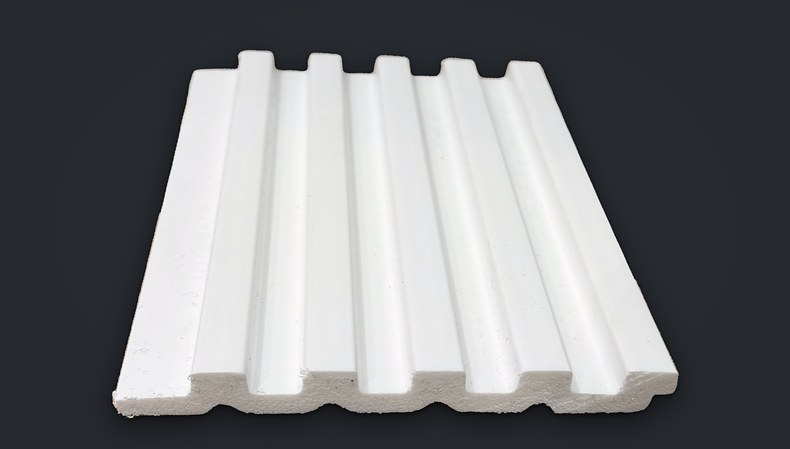
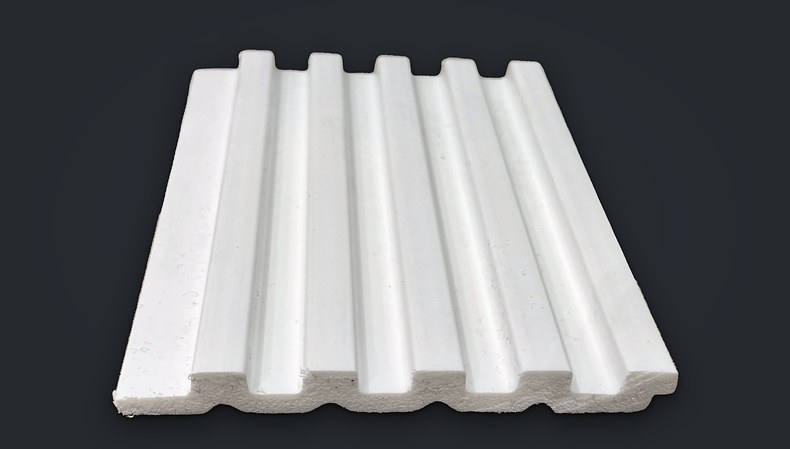
standing.py: стоящие образцы — края по самому снимку (не по маске), перспектива по 4 углам, углы целые; A904 и A201 — по 3 фото (разобрана путаница)
Claude-Session: https://claude.ai/code/session_01WYD11AvkmgMEHWWFRLVb2R

diff --git a/standing.py b/standing.py
@@ -1,0 +1,162 @@
+"""Образец стоит лицом к камере (фото с телефона): точное выравнивание.
+python3 standing.py <cut.png> <src.jpg> <out.png>
+Что делает (v4, 16.11.2026 — после замечаний Михаила «мушки / округлые / подрезанные, угла нет»):
+  1) грубая рамка — по маске нейросети (только чтобы знать, где искать);
+  2) настоящие края ищем по самому снимку (перепад яркости «белый образец — серый фон»), а не по маске:
+     маска на белом по светлому фону плавает на 3–10 px — от неё и были кривые бока и съеденные углы;
+  3) по четырём углам — перспектива в прямоугольник (телефон снимает близко и сверху: отрезок выходит трапецией);
+  4) альфа: бока — строго по прямым, верх и низ — по настоящему силуэту (профиль на срезе), углы целые;
+  5) фото внутри не трогаем (ни размытия, ни «проявления граней») — свет и тени как на снимке.
+Результат — PNG с альфой в исходном масштабе; фон, тень и тон добавляет compose.py --rawalpha."""
+import sys
+import numpy as np, cv2
+from PIL import Image
+from scipy.ndimage import median_filter
+
+
+def robust_line(u, v, tol=1.2, it=6):
+    """v = k*u + b; выбросы отбрасываем."""
+    u = np.asarray(u, float); v = np.asarray(v, float)
+    k, b = np.polyfit(u, v, 1)
+    for _ in range(it):
+        r = np.abs(v - (k * u + b))
+        ok = r <= max(tol, np.percentile(r, 50))
+        if ok.sum() < 8:
+            break
+        k, b = np.polyfit(u[ok], v[ok], 1)
+    return k, b
+
+
+def edge_pos(g, lo, hi, sign):
+    """Позиция сильнейшего перепада нужного знака в отрезке [lo, hi) одномерного градиента g (с субпикселем)."""
+    seg = g[lo:hi] * sign
+    i = int(np.argmax(seg))
+    val = seg[i]
+    if 0 < i < len(seg) - 1:
+        a, b_, c = seg[i - 1], seg[i], seg[i + 1]
+        den = a - 2 * b_ + c
+        off = 0.5 * (a - c) / den if abs(den) > 1e-6 else 0.0
+    else:
+        off = 0.0
+    return lo + i + off, val
+
+
+def main():
+    cut, src, out = sys.argv[1:4]
+    rgb = np.asarray(Image.open(src).convert('RGB'), dtype=np.float32)
+    mask = np.asarray(Image.open(cut).convert('RGBA'))[..., 3] > 128
+    Hh, Ww = mask.shape
+    # --- 1. грубая рамка: колонки, занятые почти на всю высоту (полоса полки за образцом так не умеет)
+    cnt = mask.sum(0); cols = np.where(cnt > 0.45 * cnt.max())[0]
+    x0, x1 = cols.min(), cols.max()
+    rc = mask[:, x0:x1 + 1].sum(1); rows = np.where(rc > 0.3 * rc.max())[0]
+    y0, y1 = rows.min(), rows.max()
+    W, H = x1 - x0, y1 - y0
+    # --- 2. края по снимку. Яркость (L) — образец самый светлый в кадре
+    L = cv2.cvtColor(rgb.astype(np.uint8), cv2.COLOR_RGB2LAB)[..., 0].astype(np.float32)
+    Lb = cv2.GaussianBlur(L, (0, 0), 1.3)
+    gx = cv2.Sobel(Lb, cv2.CV_32F, 1, 0, ksize=3)
+    gy = cv2.Sobel(Lb, cv2.CV_32F, 0, 1, ksize=3)
+    win = max(12, int(0.03 * W))
+    ys = np.arange(y0 + int(0.08 * H), y1 - int(0.16 * H), 2)
+    xl, xr, yv = [], [], []
+    for y in ys:
+        a, va = edge_pos(gx[y], max(0, x0 - win), x0 + win, +1)
+        b, vb = edge_pos(gx[y], x1 - win, min(Ww, x1 + win), -1)
+        xl.append(a); xr.append(b); yv.append(y)
+    # первый проход — по широкому окну, второй — узкое окно вокруг найденной прямой
+    def refine(sign, first, x_from, x_to):
+        k, b = robust_line(yv, first, tol=2.0)
+        pts = []
+        for y in ys:
+            xe = k * y + b
+            p, v = edge_pos(gx[y], int(max(0, xe - 6)), int(min(Ww, xe + 7)), sign)
+            pts.append(p)
+        return robust_line(yv, pts, tol=0.8)
+    kl, bl = refine(+1, xl, 0, 0)
+    kr, br = refine(-1, xr, 0, 0)
+    xs = np.arange(x0 + int(0.04 * W), x1 - int(0.04 * W), 2)
+    yt = [edge_pos(gy[:, x], max(0, y0 - win), y0 + win, +1)[0] for x in xs]
+    kt, bt = robust_line(xs, yt, tol=2.0)
+    yt = [edge_pos(gy[:, x], int(max(0, kt * x + bt - 8)), int(kt * x + bt + 9), +1)[0] for x in xs]
+    kt, bt = robust_line(xs, yt, tol=1.0)
+    res = np.asarray(yt) - (kt * xs + bt)
+    bt += np.percentile(res, 4)                       # верхняя огибающая: выступающие рёбра не срезаем
+    yb = [edge_pos(gy[:, x], y1 - win, min(Hh, y1 + win), -1)[0] for x in xs]
+    yb = np.asarray(yb); sel = yb >= np.percentile(yb, 65)
+    kb, bb = robust_line(xs[sel], yb[sel], tol=1.5)   # линия, на которой образец стоит (самые нижние точки)
+    def cross(kx, bx, ky, by):                         # x = kx*y + bx ; y = ky*x + by
+        y = (ky * bx + by) / (1 - ky * kx); return kx * y + bx, y
+    TL, TR = cross(kl, bl, kt, bt), cross(kr, br, kt, bt)
+    BL, BR = cross(kl, bl, kb, bb), cross(kr, br, kb, bb)
+    # --- 3. перспектива в прямоугольник
+    w = (np.hypot(TR[0] - TL[0], TR[1] - TL[1]) + np.hypot(BR[0] - BL[0], BR[1] - BL[1])) / 2
+    h = (np.hypot(BL[0] - TL[0], BL[1] - TL[1]) + np.hypot(BR[0] - TR[0], BR[1] - TR[1])) / 2
+    pad = 60
+    OW, OH = int(round(w)) + 2 * pad, int(round(h)) + 2 * pad
+    dst = np.float32([[pad, pad], [pad + w, pad], [pad + w, pad + h], [pad, pad + h]])
+    M = cv2.getPerspectiveTransform(np.float32([TL, TR, BR, BL]), dst)
+    img = cv2.warpPerspective(rgb, M, (OW, OH), flags=cv2.INTER_CUBIC, borderMode=cv2.BORDER_REPLICATE)
+    mk = cv2.warpPerspective(mask.astype(np.float32), M, (OW, OH), flags=cv2.INTER_LINEAR) > 0.5
+    # --- 4. альфа. Верх и низ — по силуэту на выровненном снимке
+    lab2 = cv2.cvtColor(np.clip(img, 0, 255).astype(np.uint8), cv2.COLOR_RGB2LAB).astype(np.float32)
+    L2 = cv2.GaussianBlur(lab2[..., 0], (0, 0), 1.1)
+    g2 = cv2.Sobel(L2, cv2.CV_32F, 0, 1, ksize=3)
+    Lx, Rx, Ty, By = pad, pad + w, pad, pad + h
+    cx = np.arange(int(np.ceil(Lx)), int(np.floor(Rx)) + 1)
+    # низ: образец белый и нейтральный (b* ≈ 133), стол бежевый (b* ≈ 152), тень под образцом тёмная.
+    # «Фоновость» f = желтизна + темнота; граница — где f переходит через 0,5 (с субпикселем).
+    inner = lab2[int(Ty + 0.3 * h):int(Ty + 0.7 * h), int(Lx + 0.1 * w):int(Rx - 0.1 * w)]
+    b_ref = float(np.median(inner[..., 2])); L_ref = float(np.median(inner[..., 0]))
+    strip0 = int(By - 0.25 * h); strip1 = int(min(OH - 1, By + 16))
+    b_tab = float(np.median(lab2[int(min(OH - 1, By + 8)):strip1 + 1, int(Lx):int(Rx), 2]))
+    f = np.clip((lab2[..., 2] - b_ref) / max(b_tab - b_ref, 4.0), 0, 1.2) + np.clip((L_ref - lab2[..., 0]) / 140.0, 0, 1)
+    f = cv2.GaussianBlur(f, (0, 0), 0.8)
+    top = np.zeros(len(cx)); bot = np.full(len(cx), np.nan); tv = np.zeros(len(cx)); bv = np.ones(len(cx))
+    for i, x in enumerate(cx):
+        top[i], tv[i] = edge_pos(g2[:, x], int(Ty - 5), int(Ty + 0.10 * h), +1)
+        col = f[strip0:strip1 + 1, x]
+        idx = np.where(mk[strip0:strip1 + 1, x])[0]
+        mb = float(idx.max()) if len(idx) else float(By - strip0)       # низ по маске нейросети — как подсказка
+        # все переходы «образец → фон» сверху вниз; берём ближайший к подсказке (в тёмном пазу образец
+        # сам похож на тень — там перехода нет, и остаётся подсказка)
+        cr = np.where((col[:-1] < 0.5) & (col[1:] >= 0.5))[0]
+        best = None
+        for j0 in cr:
+            if j0 >= 3 and (col[j0 - 3:j0 + 1] < 0.5).all() and abs(j0 - mb) <= 12:
+                if best is None or abs(j0 - mb) < abs(best - mb):
+                    best = j0
+        if best is None:
+            bot[i] = strip0 + mb + 0.5
+        else:
+            v0, v1 = col[best], col[best + 1]
+            bot[i] = strip0 + best + float(np.clip((0.5 - v0) / max(v1 - v0, 1e-6), 0, 1))
+    bad = np.isnan(bot)
+    if bad.any():
+        bot[bad] = np.interp(np.where(bad)[0], np.where(~bad)[0], bot[~bad])
+    # срез ножовкой даёт «бахрому» — медиана её убирает; слабый перепад сверху (блик) — берём соседей
+    def clean(v, strength, k):
+        v = v.copy(); bd = strength < 0.35 * np.median(strength)
+        if bd.any() and (~bd).sum() > 10:
+            v[bd] = np.interp(np.where(bd)[0], np.where(~bd)[0], v[~bd])
+        return median_filter(v, size=k, mode='nearest')
+    from scipy.ndimage import gaussian_filter1d
+    top = clean(top, tv, 9); bot = clean(bot, bv, 13)
+    bot = gaussian_filter1d(bot, 1.5, mode='nearest')      # заусенцы среза — долой, форма профиля остаётся
+    top = np.clip(top, Ty - 1, None)
+    yy = np.arange(OH, dtype=np.float32)[:, None]
+    alpha = np.zeros((OH, OW), np.float32)
+    a = np.clip(yy - top[None, :] + 0.5, 0, 1) * np.clip(bot[None, :] - yy + 0.5, 0, 1)
+    alpha[:, cx] = a
+    # бока: строго вертикальные, на 1 px внутрь (без нитки фона), со сглаживанием в полпикселя
+    xx = np.arange(OW, dtype=np.float32)[None, :]
+    alpha *= np.clip(xx - (Lx + 1.0) + 0.5, 0, 1) * np.clip((Rx - 1.0) - xx + 0.5, 0, 1)
+    out_rgba = np.dstack([np.clip(img, 0, 255), alpha * 255]).astype(np.uint8)
+    Image.fromarray(out_rgba, 'RGBA').save(out)
+    ang = lambda k: np.degrees(np.arctan(k))
+    print('corners', [tuple(round(float(c)) for c in p) for p in (TL, TR, BR, BL)],
+          'tilt L %.2f R %.2f top %.2f bottom %.2f' % (ang(kl), ang(kr), ang(kt), ang(kb)), 'size %dx%d' % (w, h))
+
+
+if __name__ == '__main__':
+    main()

diff --git a/compose.py b/compose.py
@@ -281,7 +281,8 @@ def main():
     if '--wb' in sys.argv:
         wb = [float(x) for x in sys.argv[sys.argv.index('--wb') + 1].split(',')]
     rgb, alpha = load(cut, src)
-    alpha = clean_alpha(alpha)
+    if '--rawalpha' not in sys.argv:       # альфа уже точная (standing.py) — не «чистим», чтобы не скруглять углы
+        alpha = clean_alpha(alpha)
     if '--standing' in sys.argv:
         alpha, nst = standing_clean(alpha)
         print('standing band removed', nst)
@@ -323,6 +324,14 @@ def main():
         rgb = 246.0 * (rgb / 246.0) ** g
         if '--relief' in sys.argv:
             rgb = relief(rgb, alpha)
+        if '--lc' in sys.argv:              # мягко усилить светотень (грани) без пятен: крупный радиус, только по изделию
+            amt = float(sys.argv[sys.argv.index('--lc') + 1])
+            lum3 = 0.2126 * rgb[..., 0] + 0.7152 * rgb[..., 1] + 0.0722 * rgb[..., 2]
+            am = (alpha > 0.5).astype(np.float64)
+            sg = 0.035 * max(np.ptp(np.where(am.any(0))[0]), 50)
+            base = cv2.GaussianBlur(lum3 * am, (0, 0), sg) / np.maximum(cv2.GaussianBlur(am, (0, 0), sg), 1e-3)
+            new = np.clip(lum3 + amt * (lum3 - base), 40, 252)
+            rgb = rgb * (new / np.maximum(lum3, 1))[..., None]
     else:
         hi = np.percentile(lumv, 99.5)
         if hi > 250:
